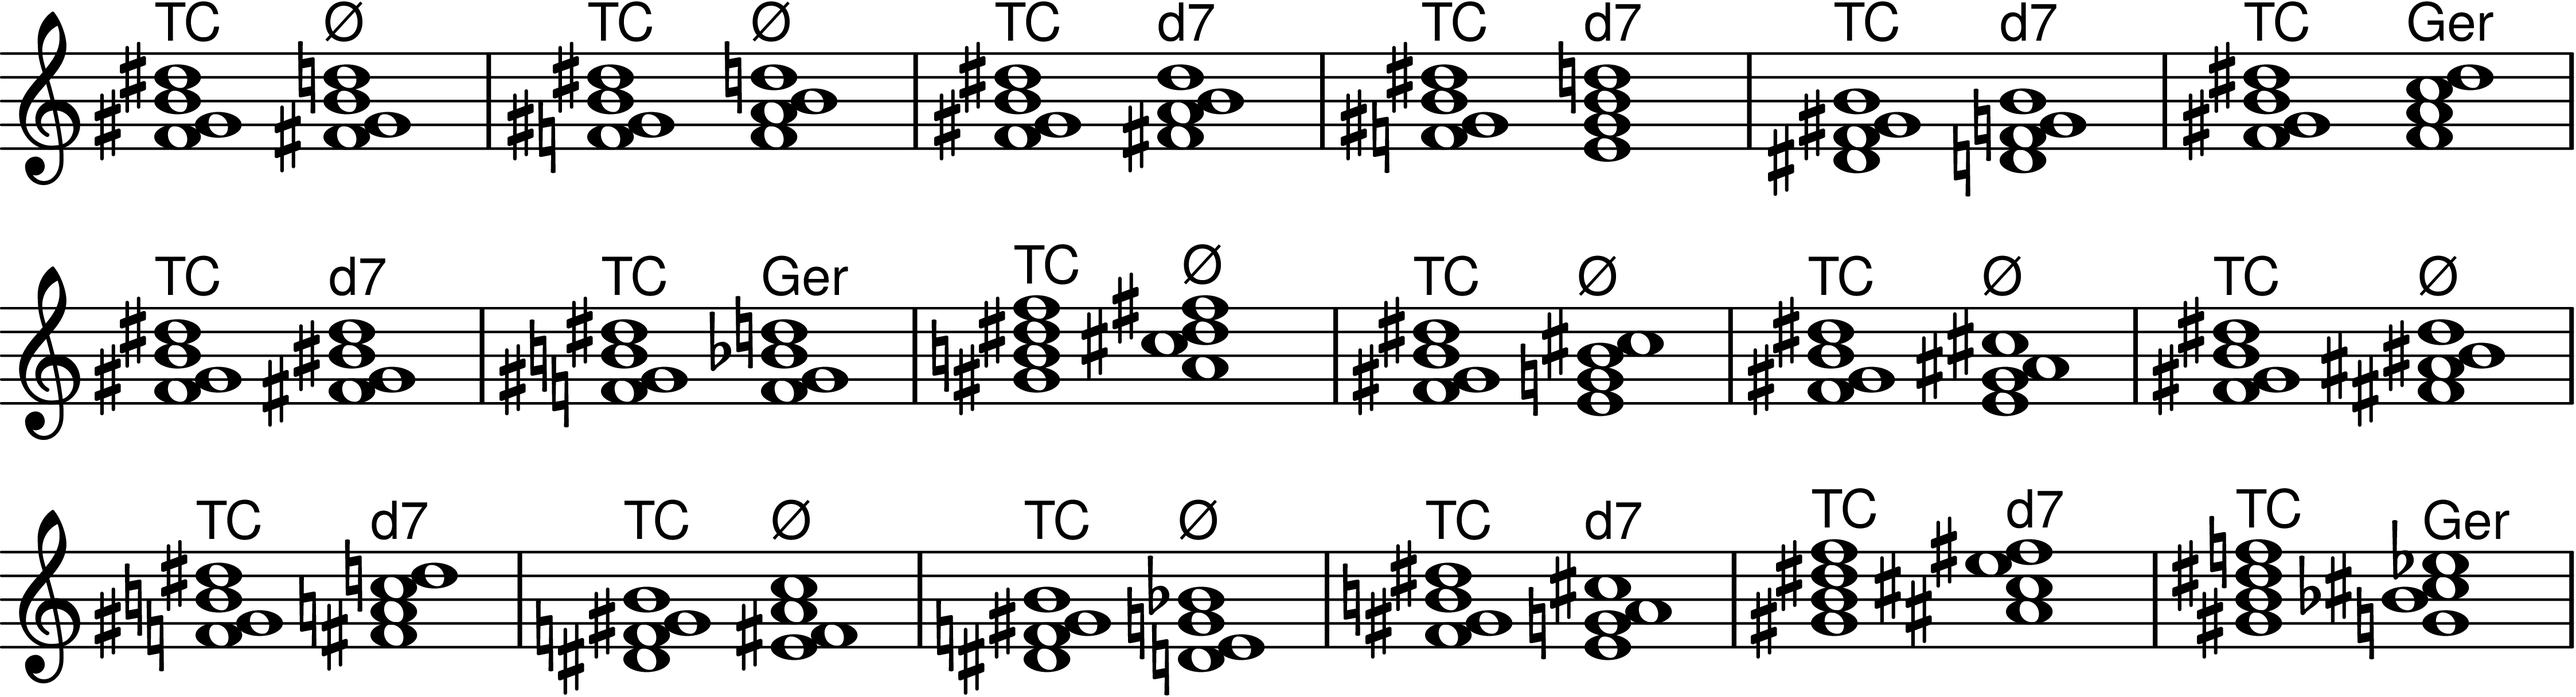
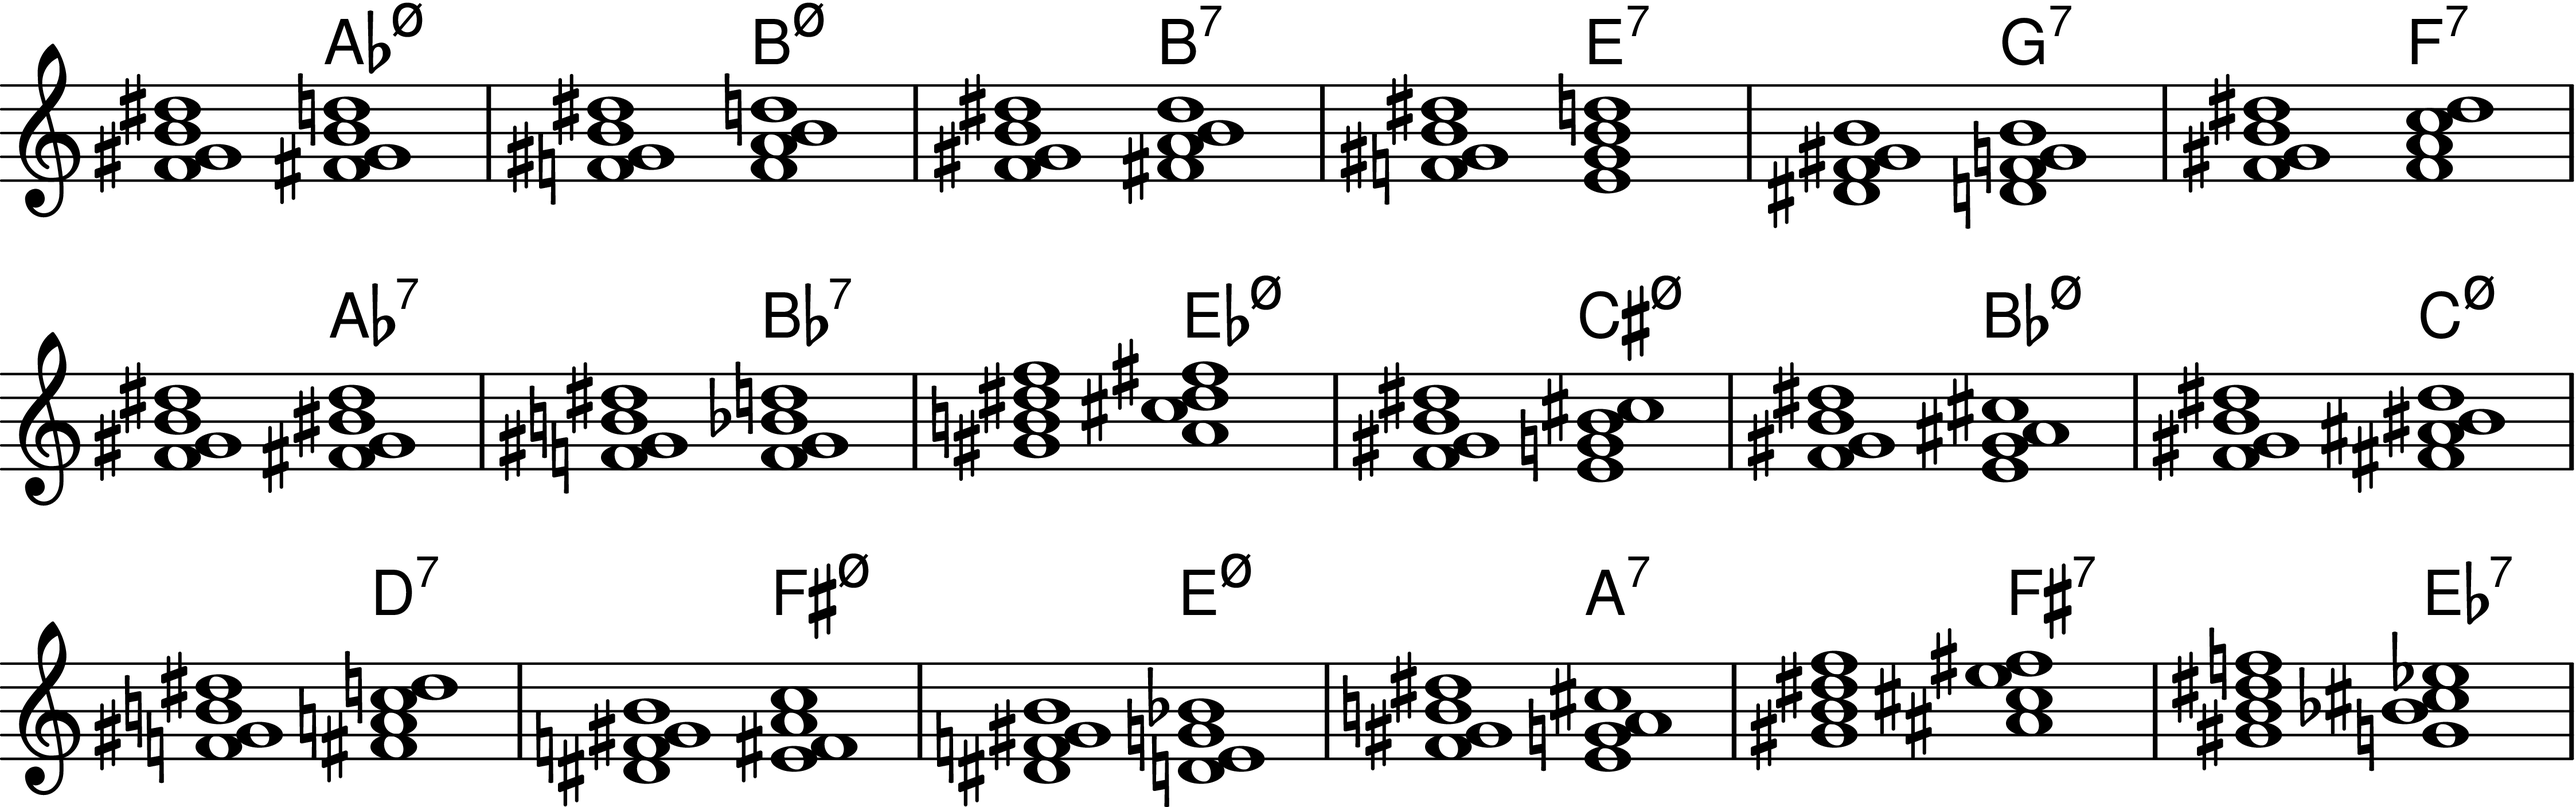
further improvements

diff --git a/septima.cpp b/septima.cpp
@@ -54,18 +54,34 @@ static void show_usage(std::string name) {
               << std::endl;
 }
 
-static void output_transitions(const std::vector<Transition> &trans, PreparationScheme prep_scheme, int lily) {
+static void output_transitions(const std::vector<Transition> &trans, PreparationScheme prep_scheme, int lily, bool full_chord_names) {
+    std::string tab = "\t\t";
     if (lily) {
         std::cout << "\\include \"lilypond-book-preamble.ly\"\n"
                   << "\\paper {\n\toddFooterMarkup = ##f\n\t#(include-special-characters)\n}\n"
-                  << "\\score {\n"
-                  << "\t\\new Staff {\n\t\t\\override Score.TimeSignature.stencil = ##f\n"
-                  << "\t\t\\override Score.BarNumber.stencil = ##f\n"
-                  << "\t\t\\time 2/1\n\t\t\\accidentalStyle modern\n";
-        for (std::vector<Transition>::const_iterator it = trans.begin(); it != trans.end(); ++it) {
-            std::cout << "\t\t" << it->to_lily(70, prep_scheme == PREPARE_GENERIC, lily == 2) << " |\n";
+                  << "\\score {\n";
+        if (full_chord_names) {
+            tab = "\t\t\t";
+            std::cout << "\t<<\n\t\t\\new ChordNames \\chordmode{\n";
+            for (std::vector<Transition>::const_iterator it = trans.begin(); it !=trans.end(); ++it) {
+                std::cout << tab << "s1 " << it->second().chord().to_lily(1) << "\n";
+            }
+            std::cout << "\t\t}\n\t";
         }
-        std::cout << "\t}\n\t\\layout { indent = 0\\cm }\n}\n";
+        std::cout << "\t\\new Staff {\n"
+                  << tab << "\\override Score.TimeSignature.stencil = ##f\n"
+                  << tab << "\\override Score.BarNumber.stencil = ##f\n"
+                  << tab << "\\time 2/1\n\t\t\\accidentalStyle modern\n";
+        for (std::vector<Transition>::const_iterator it = trans.begin(); it != trans.end(); ++it) {
+            std::cout << tab << it->to_lily(70, prep_scheme == PREPARE_GENERIC, lily == 2 && !full_chord_names)
+                      << " |\n";
+        }
+        if (full_chord_names)
+            std::cout << "\t";
+        std::cout << "\t}\n";
+        if (full_chord_names)
+            std::cout << "\t>>\n";
+        std::cout << "\t\\layout { indent = 0\\cm }\n}\n";
     } else std::cout << trans;
 }
 
@@ -420,7 +436,7 @@ int main(int argc, char *argv[]) {
                     else
                         std::cerr << rest << std::endl;
                 }
-                output_transitions(trans, prep_scheme, lily);
+                output_transitions(trans, prep_scheme, lily, true);
             }
         } else std::cerr << "Error: task --transitions requires at least two distinct chords" << std::endl;
     } else if (task == 5) { // generate classes of elementary transitions
@@ -434,7 +450,7 @@ int main(int argc, char *argv[]) {
                 if (verbose)
                     std::cerr << "Found " << trans.size() << " transition types for "
                               << chords.size() << " chords " << chords << std::endl;
-                output_transitions(trans, prep_scheme, lily);
+                output_transitions(trans, prep_scheme, lily, false);
             }
         } else std::cerr << "Error: at least two chords must be specified" << std::endl;
     } else assert(false);

diff --git a/lib/chord.h b/lib/chord.h
@@ -56,6 +56,7 @@ public:
     bool operator !=(const Chord &other) const;
     static const int structure[][3];
     static const char *symbols[];
+    static const char *note_names[];
 
     int root() const;
     /* returns the root pitch class of this chord */
@@ -88,16 +89,19 @@ public:
     /* returns the value of voice-leading efficiency metric (Harasim et.al, 2016) */
 
     std::string to_string() const;
-    /* returns the string representation */
+    /* returns a string representation */
 
     std::string to_tex() const;
-    /* returns the LaTeX label (for math mode) */
+    /* returns LaTeX label (for math mode) */
+
+    std::string to_lily(int duration = 0) const;
+    /* returns Lilypond chord notation */
 
     std::set<int> pitch_class_set() const;
     /* returns the integer representation */
 
     Chord structural_inversion() const;
-    /* returns the structural inversion */
+    /* returns the structural inversion about pc 2 (tone D) */
 
     static std::vector<Chord> make_sequence_from_symbols(const char* symbols[], int len);
     /* returns the sequence of chords from array of chord symbols of length len */

diff --git a/lib/chord.cpp b/lib/chord.cpp
@@ -29,6 +29,10 @@ const char* Chord::symbols[] = {
     "d7", "hdim7", "m7", "maj7", "dim7", "Ger6+", "TC"
 };
 
+const char* Chord::note_names[] = {
+    "c", "cis", "d", "es", "e", "f", "fis", "g", "as", "a", "bes", "b"
+};
+
 Chord::Chord() {
     _root = 0;
     _type = -1;
@@ -146,6 +150,34 @@ std::string Chord::to_tex() const {
         break;
     case DIMINISHED_SEVENTH:
         ss << "^{\\mathrm{o}7}";
+        break;
+    default:
+        assert(false);
+    }
+    return ss.str();
+}
+
+std::string Chord::to_lily(int duration) const {
+    std::stringstream ss;
+    ss << note_names[root()];
+    if (duration > 0)
+        ss << duration;
+    ss << ":";
+    switch (type()) {
+    case DOMINANT_SEVENTH:
+        ss << "7";
+        break;
+    case HALF_DIMINISHED_SEVENTH:
+        ss << "m7.5-";
+        break;
+    case MINOR_SEVENTH:
+        ss << "m7";
+        break;
+    case MAJOR_SEVENTH:
+        ss << "maj7";
+        break;
+    case DIMINISHED_SEVENTH:
+        ss << "dim7";
         break;
     default:
         assert(false);

diff --git a/README.md b/README.md
@@ -3,14 +3,14 @@
 ## Introduction
 
 ### Overview
-Septima is a C++ library for investigating tonal relations between seventh chords.
+Septima is a C++ library for exploring tonal relations between seventh chords.
 
 #### Features
 * generating elementary transitions between seventh chords
 * creating chord networks
 * finding optimal voicings for sequences of seventh chord symbols
 
-A command-line interface is provided for using library features from a terminal.
+A command-line interface is provided for using the above key features from a terminal.
 
 ### Dependencies
 1. GCC
@@ -76,10 +76,10 @@ On a Linux machine, the executable is called from terminal like this:
 - `-fa`, `--force-augmented` &mdash; Spell first realization in a transition as augmented sixth.
 - `-d`, `--domain` &mdash; Specify domain on the line of fifths. It is entered as a comma-separated list of integers. Blocks of several consecutive integers, such as e.g. 1,2,3,4,5, can be entered as 1:5. The default domain is {−15,−14,…,15}, which corresponds to notes from G&#119083; to A&#119082;.
 - `-z`, `--tonal-center` &mdash; Specify tonal center on the line of fifths. Default: 0, which corresponds to the note D.
-- `-lf`, `--label-format` &mdash; Specify format for chord graph labels. Choices are *symbol*, *number*, and *latex*. Default: *symbol*.
-- `-p`, `--preparation` &mdash; Specify preparation scheme for elementary transitions. Choices are *none*, *generic* (for preparation of generic sevenths), and *acoustic* (for preparation of acoustic sevenths). Default: *none*.
+- `-lf`, `--label-format` &mdash; Specify format for chord graph labels. Choices are **symbol**, **number**, and **latex**. Default: **symbol**.
+- `-p`, `--preparation` &mdash; Specify preparation scheme for elementary transitions. Choices are **none**, **generic** (for preparation of generic sevenths), and **acoustic** (for preparation of acoustic sevenths). Default: *none*.
 - `-w`, `--weights` &mdash; Specify weight parameters for the voicing algorithm. Three nonnegative floating-point values are required: tonal-center proximity weight *w*&#8321;, voice-leading complexity weight *w*&#8322;, and penalty *w*&#8323; for augmented sixths. By default, *w*&#8321; = 1.0, *w*&#8322; = 1.75, and *w*&#8323; = 0.25.
-- `-vc`, `--vertex-centrality` &mdash; Show centrality measure with each vertex of the chord graph. Choices are *none*, *label*, and *color*. Default: *none*.
+- `-vc`, `--vertex-centrality` &mdash; Show centrality measure with each vertex of the chord graph. Choices are **none**, **label**, and **color**. Default: **none**.
 - `-ly`, `--lilypond` &mdash; Output transitions and voicings in Lilypond code.
 - `-cs`, `--chord-symbols` &mdash; Print chord symbols above realizations in Lilypond output.
 - `-q`, `--quiet` &mdash; Suppress messages.
@@ -115,6 +115,16 @@ The following output (`out.png`) is obtained:
 
 <p align="center"><img src="images/trans_C7-Bdim7.png" width="62%"></p>
 
+In the next example, all connections of Tristan chord to another dominant/half-diminished seventh chord are generated. Enter:
+
+```
+./septima -t -aa -fa -cs -ly 5:hdim7 d7 hdim7 >out.ly
+```
+
+Note that a list of seventh chords is given; the first chord is called *home chord* while others are *destination chords*. Any duplicates are automatically removed. The option `-fa` forces the home chord to be spelled as an augmented sixth, while `-cs` enables printing chord symbols in the output. Processing `out.ly` with Lilypond, similarly to above, produces the following image:
+
+<p align="center"><img src="images/trans_TC.png" width="70%"></p>
+
 #### Generating all structural classes of transitions between chords in the given set
 
 For the given set of seventh chords, all possible elementary transitions are generated and split into structural-equivalence classes.
@@ -136,13 +146,13 @@ To generate all classes of diatonic transitions between dominant, half-diminishe
 ./septima -tc -c 5 -ly -cs d7 hdim7 m7 maj7 >out.ly
 ```
 
-Diatonic voice leading is obtained by setting `-c` option to 5. The option `-cs` enables printing chord symbols in the output. We obtain the following 25 transition types:
+Diatonic voice leading is obtained by setting `-c` option to 5. The following 25 transition types are obtained:
 
 <p align="center"><img src="images/trans_diatonic.png" width="70%"></p>
 
 ### Chord graphs
 
-Chord graphs are output in [DOT format](https://graphviz.org/doc/info/lang.html). It may be worth noting that the free computer algebra system [Giac/Xcas](https://www-fourier.ujf-grenoble.fr/~parisse/giac.html) supports importing from DOT and features an extensive package for graph theory, which may be useful for investigating properties of chord graphs.
+Chord graphs are output in [DOT format](https://graphviz.org/doc/info/lang.html). It may be worth noting that the free computer algebra system [Giac/Xcas](https://www-fourier.ujf-grenoble.fr/~parisse/giac.html) supports importing from DOT and features an extensive package for graph theory, which can be useful for investigating properties of chord graphs.
 
 For example, to create the chord graph on minor seventh chords with edges corresponding to diatonic relations, enter:
 
@@ -204,7 +214,7 @@ For example, to generate a voicing for the progression F&#216; &#8594; E⁷ &#85
 ./septima -v -aa -w 1.0 1.75 0.2 sequences/Wagner1.seq
 ```
 
-The penalty for augmented sixths is set to 0.2, which is a bit lower than the defult 0.25. This way the famous Tristan chord is obtained at the beginning. The optimal voicing is output as a sequence of chord realizations.
+The penalty for augmented sixths is set to 0.2, which is a bit lower than the defult 0.25. This way Tristan chord is obtained at the beginning. The optimal voicing is output as a sequence of chord realizations.
 
 ```
 Using GLPK 4.65
